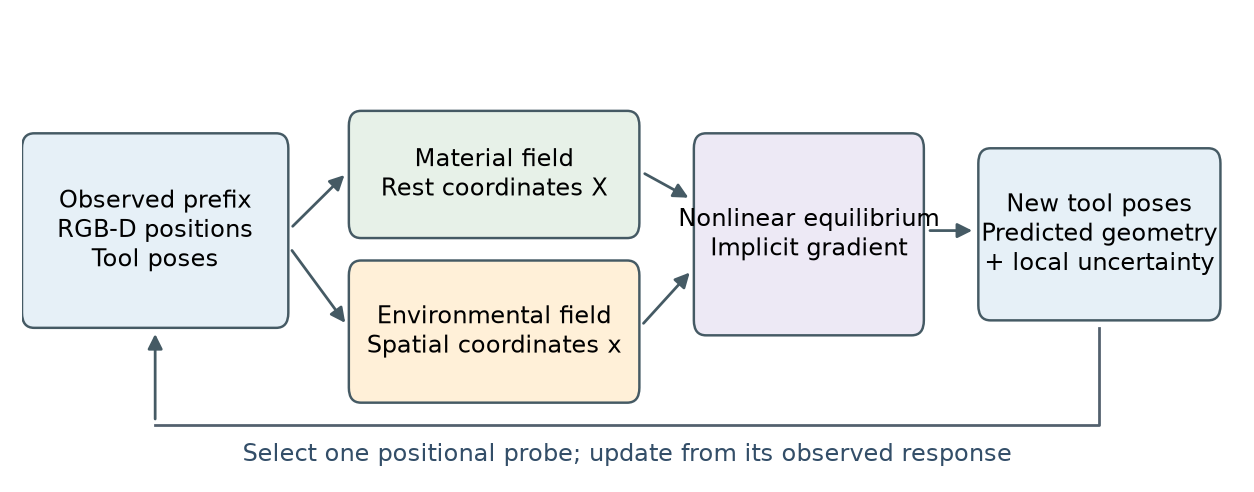
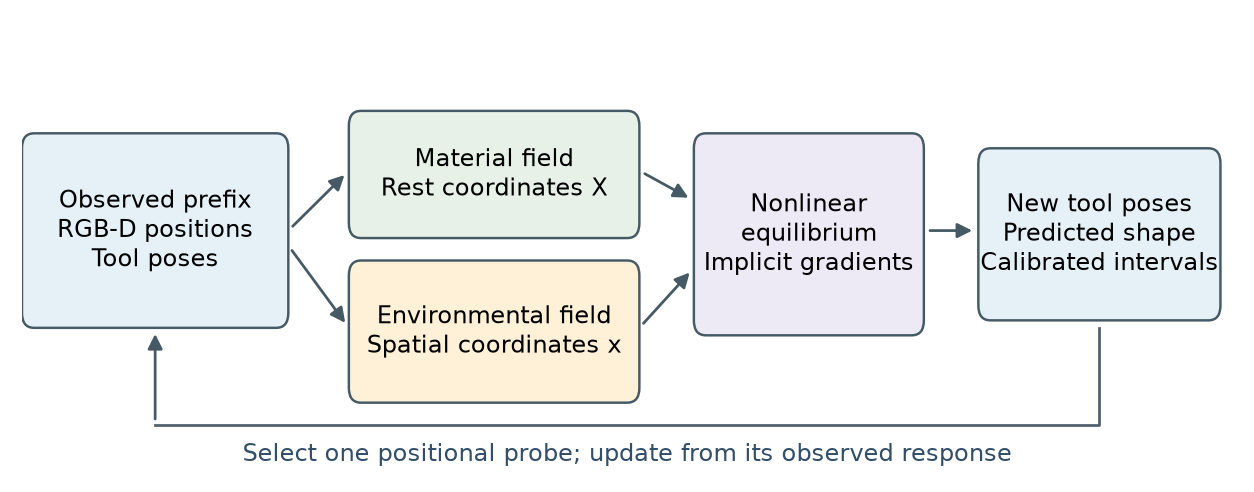
Clarify fixed-environment positional generalization and adjoint expression

Changed region(s): [[0.5287, 0.3963, 0.7464, 0.5488], [0.7775, 0.4573, 0.9952, 0.5488]]

diff --git a/papers/position-ood-v10/main.tex b/papers/position-ood-v10/main.tex
@@ -96,7 +96,7 @@ Here $z$ denotes scaled latent coordinates, with log coordinates for positive st
 Let $R(u,\theta,a)=\partial\Pi/\partial u$ and $K=\partial R/\partial u$. At a nonsingular equilibrium, an adjoint solve gives
 \begin{equation}
  K^\top v=\frac{\partial\mathcal L}{\partial u},\qquad
- \frac{d\mathcal L}{d\theta}=-v^\top\frac{\partial R}{\partial\theta}.
+ \frac{d\mathcal L}{d\theta}=\left.\frac{\partial\mathcal L}{\partial\theta}\right|_u-v^\top\frac{\partial R}{\partial\theta}.
 \end{equation}
 We verify the implementation against an independent sparse assembly and finite differences of the equilibrium solution.
 
@@ -112,7 +112,7 @@ Let $J_a=\partial \hat u(a,\hat\theta)/\partial z$ denote the positional sensiti
 \begin{equation}
  C=\left(J_{\mathcal D}^{\top}\Sigma^{-1}J_{\mathcal D}+\Lambda\right)^{-1},
 \end{equation}
-where $\Lambda$ encodes weak parameter-scale regularization. This local approximation describes sensitivity around a fitted explanation. A separate object-level calibration stage sets the predictive interval scale.
+where $\Lambda$ encodes weak parameter-scale regularization. This local approximation describes sensitivity around a fitted explanation, conditioned on its selected attachment layout. A separate object-level calibration stage sets the predictive interval scale.
 
 For a candidate probe $a$, observing its visible points yields an approximate covariance $C_a=(C^{-1}+J_a^{\top}H_a^{\top}\Sigma^{-1}H_aJ_a)^{-1}$. We choose the probe that maximizes the reduction in target predictive variance,
 \begin{equation}
@@ -124,7 +124,7 @@ Probe selection uses predicted sensitivities, without observing candidate respon
 For each calibration object, we take the 90th percentile of absolute held-action coordinate errors divided by $\sqrt{\sigma^2+\epsilon^2}$, where $\sigma^2=\operatorname{diag}(J_aCJ_a^\top)$ and $\epsilon=20\,\mu$m is a fixed scale floor. The order statistic at rank $\lceil0.9(n+1)\rceil$ of the $n$ object scores determines a common interval multiplier. Under object exchangeability, this construction targets at least 90\% coordinate coverage for 90\% of objects. For spatial-transfer experiments, we fit separate multipliers before acquisition and after each acquisition policy on 12 independent calibration objects, using the same held-target protocol as evaluation. This separates covariance contraction from demonstrated post-acquisition coverage. The benchmark fixes balanced attachment-layout counts, and the shifted cohorts additionally change their parameter distributions. We therefore report coverage empirically for this design, rather than assert an exchangeability guarantee for every cohort.
 
 \subsection{Generalization and adaptation}
-We distinguish three questions: prediction under a new action before its response is observed; calibration of uncertainty about that response; and prediction after a limited adaptation budget. A completely unobserved change in external loading is not assumed to be uniquely predictable from position alone. Such changes are evaluated through detection and adaptation, with the information available to each method stated explicitly.
+We distinguish three questions: prediction under a new action before its response is observed; calibration of uncertainty about that response; and prediction after a limited adaptation budget. Each object's environment remains fixed during these experiments; positional actions change how the object samples that environment. Environmental OOD changes the distribution of fields across objects, whose prefixes remain observable. Completely unobserved time-varying changes in external loading are outside this protocol.
 
 \section{Experimental Protocol}
 \input{results}

diff --git a/scripts/position_ood/paper_figures.py b/scripts/position_ood/paper_figures.py
@@ -6,14 +6,16 @@ import matplotlib
 matplotlib.use('Agg')
 import matplotlib.pyplot as plt
 from matplotlib.patches import FancyBboxPatch,FancyArrowPatch
-ROOT=Path(__file__).resolve().parents[2];OUT=ROOT/'papers/position-ood-v09/figures';OUT.mkdir(exist_ok=True)
+ROOT=Path(__file__).resolve().parents[2];sys.path.insert(0,str(ROOT))
+from scripts.position_ood.runtime import BASE
+OUT=ROOT/'papers'/BASE.name/'figures';OUT.mkdir(exist_ok=True)
 
 def overview():
     fig,ax=plt.subplots(figsize=(7.1,2.65));ax.set(xlim=(0,10),ylim=(0,3));ax.axis('off')
     def box(x,y,w,h,label,color):
         ax.add_patch(FancyBboxPatch((x,y),w,h,boxstyle='round,pad=0.10',facecolor=color,edgecolor='#455A64',linewidth=.8));ax.text(x+w/2,y+h/2,label,ha='center',va='center',fontsize=8)
     def arrow(a,b):ax.add_patch(FancyArrowPatch(a,b,arrowstyle='-|>',mutation_scale=10,color='#455A64',linewidth=.9))
-    box(.1,1.05,2.,1.1,'Observed prefix\nRGB-D positions\nTool poses','#E6F0F7');box(2.8,1.65,2.2,.65,'Material field\nRest coordinates X','#E7F1E8');box(2.8,.55,2.2,.75,'Environmental field\nSpatial coordinates x','#FFF0D8');box(5.65,1.,1.7,1.15,'Nonlinear equilibrium\nImplicit gradient','#EDE9F5');box(8.,1.1,1.8,.95,'New tool poses\nPredicted geometry\n+ local uncertainty','#E6F0F7')
+    box(.1,1.05,2.,1.1,'Observed prefix\nRGB-D positions\nTool poses','#E6F0F7');box(2.8,1.65,2.2,.65,'Material field\nRest coordinates X','#E7F1E8');box(2.8,.55,2.2,.75,'Environmental field\nSpatial coordinates x','#FFF0D8');box(5.65,1.,1.7,1.15,'Nonlinear\nequilibrium\nImplicit gradients','#EDE9F5');box(8.,1.1,1.8,.95,'New tool poses\nPredicted shape\nCalibrated intervals','#E6F0F7')
     arrow((2.2,1.6),(2.7,2.));arrow((2.2,1.5),(2.7,.95));arrow((5.1,2),(5.55,1.8));arrow((5.1,.95),(5.55,1.35));arrow((7.45,1.6),(7.9,1.6));ax.plot([8.9,8.9,1.1],[.95,.3,.3],color='#52606D',linewidth=.9);arrow((1.1,.3),(1.1,.95));ax.text(5.,.06,'Select one positional probe; update from its observed response',ha='center',fontsize=8,color='#334E68')
     fig.savefig(OUT/'method.pdf',bbox_inches='tight');fig.savefig(OUT/'method.png',dpi=220,bbox_inches='tight');plt.close(fig)
 
